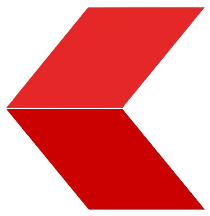
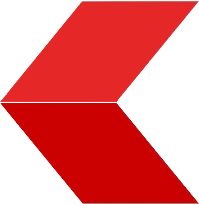
IMG

diff --git a/selfdrive/ui/paint.cc b/selfdrive/ui/paint.cc
@@ -683,9 +683,9 @@ static void ui_draw_turn_signal(UIState *s) { // Hoya modified with Neokii code
     const float img_alpha = 1.0f;
     const int fb_w = s->fb_w / 2 - 200;
     const int center_x = (s->fb_w - (bdr_s * 2)) / 2 + bdr_s;
-    const int w = fb_w / 8;
+    const int w = 100;
     const int h = 140;
-    const int gap = -60;
+    const int gap = -80;
     const int base_y = bdr_s + 10;
     const int draw_count = 12;
     int x = center_x;
